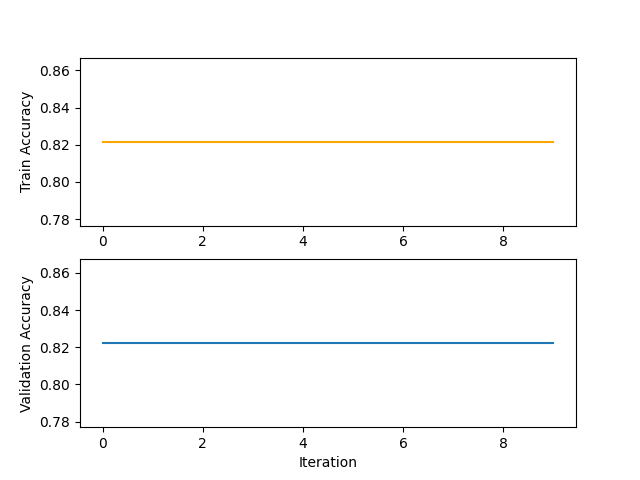
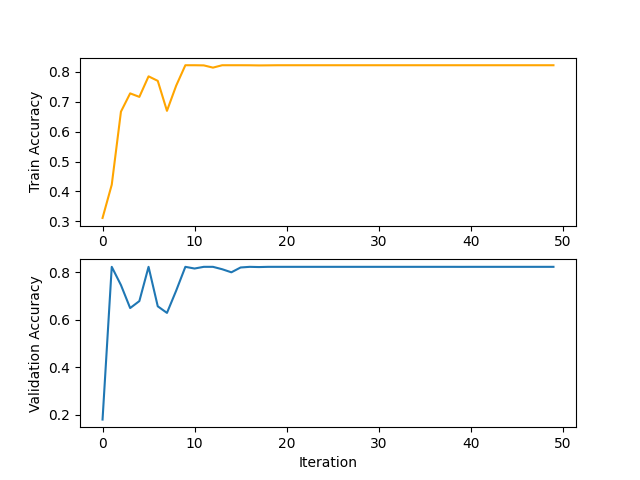
grid search, sgd optimizer

diff --git a/src/bnn/models.py b/src/bnn/models.py
@@ -1,4 +1,4 @@
-from utils import *
+from .utils import *
 
 import torch
 import torch.nn as nn
@@ -9,23 +9,29 @@ from torch.utils.data import DataLoader, TensorDataset
 
 class BNN(nn.Module):
     def __init__(self, input_dim, output_dim, 
-                 lr=0.01, prior_mu=0.0, prior_sigma=0.1):
+                 lr=0.01, prior_mu=0.0, prior_sigma=0.1, kl_weight=0.1):
+        
+        self.prior_mu = prior_mu
+        self.prior_sigma = prior_sigma
+        self.lr = lr
+
         super(BNN, self).__init__()
         self.model = nn.Sequential(
-            bnn.BayesLinear(in_features=input_dim, out_features=32, prior_mu=prior_mu,
-                            prior_sigma=prior_sigma),
+            bnn.BayesLinear(in_features=input_dim, out_features=32, 
+                            prior_mu=self.prior_mu, prior_sigma=self.prior_sigma),
             nn.ReLU(),
             bnn.BayesLinear(in_features=32, out_features=16, 
-                            prior_mu=prior_mu, prior_sigma=prior_sigma),
+                            prior_mu=self.prior_mu, prior_sigma=self.prior_sigma),
             nn.ReLU(),
-            bnn.BayesLinear(in_features=16, out_features=output_dim, prior_mu=prior_mu,
-                            prior_sigma=prior_sigma),
+            bnn.BayesLinear(in_features=16, out_features=output_dim, 
+                            prior_mu=self.prior_mu, prior_sigma=self.prior_sigma),
             nn.Sigmoid()
         )
         
         self.optimizer = torch.optim.Adam(self.parameters(), lr=lr)
         self.criterion = nn.BCELoss()
         self.kl_loss = bnn.BKLLoss(reduction="mean", last_layer_only=False)
+        self.kl_weight = kl_weight
 
     def forward(self, x):
         return self.model(x)
@@ -33,23 +39,59 @@ class BNN(nn.Module):
 
 class BatchNormBNN(nn.Module):
     def __init__(self, input_dim, output_dim, 
-                 lr=0.01, prior_mu=0.0, prior_sigma=0.1):
+                 lr=0.01, prior_mu=0.0, prior_sigma=0.1, kl_weight=0.1):
+        
+        self.prior_mu = prior_mu
+        self.prior_sigma = prior_sigma
+        self.lr = lr
+
         super(BatchNormBNN, self).__init__()
         self.model = nn.Sequential(
             bnn.BayesLinear(in_features=input_dim, out_features=32, 
-                            prior_mu=prior_mu, prior_sigma=prior_sigma),
+                            prior_mu=self.prior_mu, prior_sigma=self.prior_sigma),
             nn.BatchNorm1d(32),
             bnn.BayesLinear(in_features=32, out_features=16, 
-                            prior_mu=prior_mu, prior_sigma=prior_sigma),
+                            prior_mu=self.prior_mu, prior_sigma=self.prior_sigma),
             nn.BatchNorm1d(16),
             bnn.BayesLinear(in_features=16, out_features=output_dim, 
-                            prior_mu=prior_mu, prior_sigma=prior_sigma),
+                            prior_mu=self.prior_mu, prior_sigma=self.prior_sigma),
             nn.Sigmoid()
         )
         
-        self.optimizer = torch.optim.Adam(self.parameters(), lr=lr)
+        self.optimizer = torch.optim.Adam(self.parameters(), lr=self.lr)
         self.criterion = nn.BCELoss()
         self.kl_loss = bnn.BKLLoss(reduction="mean", last_layer_only=False)
+        self.kl_weight = kl_weight
+
+    def forward(self, x):
+        return self.model(x)
+
+
+class SGDBNN(nn.Module):
+    def __init__(self, input_dim, output_dim, 
+                 lr=0.01, prior_mu=0.0, prior_sigma=0.1, kl_weight=0.1):
+        
+        self.prior_mu = prior_mu
+        self.prior_sigma = prior_sigma
+        self.lr = lr
+
+        super(SGDBNN, self).__init__()
+        self.model = nn.Sequential(
+            bnn.BayesLinear(in_features=input_dim, out_features=32, 
+                            prior_mu=self.prior_mu, prior_sigma=self.prior_sigma),
+            nn.ReLU(),
+            bnn.BayesLinear(in_features=32, out_features=16, 
+                            prior_mu=self.prior_mu, prior_sigma=self.prior_sigma),
+            nn.ReLU(),
+            bnn.BayesLinear(in_features=16, out_features=output_dim, 
+                            prior_mu=self.prior_mu, prior_sigma=self.prior_sigma),
+            nn.Sigmoid()
+        )
+        
+        self.optimizer = torch.optim.SGD(self.parameters(), lr=lr)
+        self.criterion = nn.BCELoss()
+        self.kl_loss = bnn.BKLLoss(reduction="mean", last_layer_only=False)
+        self.kl_weight = kl_weight
 
     def forward(self, x):
         return self.model(x)
@@ -57,7 +99,7 @@ class BatchNormBNN(nn.Module):
 
 class SoftmaxBNN(nn.Module):
     def __init__(self, input_dim, output_dim, 
-                 lr=0.01, prior_mu=0.0, prior_sigma=0.1):
+                 lr=0.01, prior_mu=0.0, prior_sigma=0.1, kl_weight=0.1):
         super(SoftmaxBNN, self).__init__()
         self.model = nn.Sequential(
             bnn.BayesLinear(in_features=input_dim, out_features=32, 
@@ -70,10 +112,30 @@ class SoftmaxBNN(nn.Module):
                             prior_mu=prior_mu, prior_sigma=prior_sigma),
             nn.Softmax(dim=0)
         )
+        self.optimizer = torch.optim.Adam(self.parameters(), lr=lr)
+        self.criterion = nn.BCELoss()
+        self.kl_loss = bnn.BKLLoss(reduction="mean", last_layer_only=False)
+        self.kl_weight = kl_weight
+
+    def forward(self, x):
+        return self.model(x)
+
+
+class SingleBNN(nn.Module):
+    # for experimenting with kl_weight
+    def __init__(self, input_dim, output_dim, 
+                 lr=0.01, prior_mu=0.0, prior_sigma=0.1, kl_weight=0.1):
+        super(SingleBNN, self).__init__()
+        self.model = nn.Sequential(
+            bnn.BayesLinear(in_features=input_dim, out_features=output_dim, prior_mu=prior_mu,
+                            prior_sigma=prior_sigma),
+            nn.Sigmoid()
+        )
         
         self.optimizer = torch.optim.Adam(self.parameters(), lr=lr)
         self.criterion = nn.BCELoss()
         self.kl_loss = bnn.BKLLoss(reduction="mean", last_layer_only=False)
+        self.kl_weight = kl_weight
 
     def forward(self, x):
         return self.model(x)

diff --git a/src/bnn/utils.py b/src/bnn/utils.py
@@ -1,9 +1,15 @@
+import warnings
+warnings.simplefilter(action='ignore', category=FutureWarning)
+
 from data import *
 from sklearn.compose import ColumnTransformer
 from sklearn.preprocessing import StandardScaler, OneHotEncoder, normalize
 import matplotlib.pyplot as plt
 from sklearn.metrics import accuracy_score
 from torch.utils.data import DataLoader, TensorDataset
+import itertools
+from tqdm import tqdm
+import math
 
 
 def load_tensor():
@@ -97,9 +103,9 @@ def train(model, X_train, y_train, X_val, y_val, num_epochs):
     
         model.train()
     
-        _, train_acc = eval_performance(model, X_train, y_train, "Train")
+        _, train_acc = eval_performance(model, X_train, y_train, "Train", print_val=True)
         train_accuracies.append(train_acc)
-        val_loss, val_acc = eval_performance(model, X_val, y_val, "Validation")
+        val_loss, val_acc = eval_performance(model, X_val, y_val, "Validation", print_val=True)
         val_losses.append(val_loss)
         val_accuracies.append(val_acc)
 
@@ -132,11 +138,11 @@ def batch_train(model, X_train, y_train, X_val, y_val, num_epochs, batch_size):
         
             model.train()
 
-        train_loss, train_acc = eval_performance(model, X_train, y_train, "Train")
+        train_loss, train_acc = eval_performance(model, X_train, y_train, criterion="Train")
         train_losses.append(train_loss)
         train_accuracies.append(train_acc)
 
-        val_loss, val_acc = eval_performance(model, X_val, y_val, "Validation")
+        val_loss, val_acc = eval_performance(model, X_val, y_val, criterion="Validation")
         val_losses.append(val_loss)
         val_accuracies.append(val_acc)
 
@@ -144,16 +150,79 @@ def batch_train(model, X_train, y_train, X_val, y_val, num_epochs, batch_size):
     plot_train_val_acc(range(num_epochs), train_accuracies, val_accuracies)
 
 
-def eval_performance(model, x, y, criterion):
+def eval_performance(model, x, y, dataset, print_val=False):
     model.eval()
     with torch.no_grad():
         outputs = model(x)
         pred = (outputs >= 0.5).float()
         loss = model.criterion(pred, y)
         accuracy = accuracy_score(y, pred)
-        print(f"{criterion} Loss: {loss.item():.4f} | {criterion} Accuracy: {accuracy:.2%}")
+        if print_val:
+            print(f"{dataset} Loss: {loss:.4f} | {dataset} Accuracy: {accuracy:.2%}")
     
     return loss.item(), accuracy
+
+
+def grid_search(model, search_space, x, y, scoring):
+    total = math.prod([len(search_space[k]) for k in search_space.keys()])
+
+    results = pd.DataFrame(columns = ['score', 'params'], index = range(total))
+    
+    keys, values = zip(*search_space.items())
+    i = 0
+    with tqdm(total=total) as pbar:
+        for v in itertools.product(*values):
+            hyperparameters = dict(zip(keys, v))
+
+            loss, acc = fit(model, hyperparameters, x, y)
+            eval_results = acc if scoring == 'accuracy' else loss
+
+            results['score'][i] = eval_results
+            results['params'][i] = hyperparameters
+
+            pbar.update(1)
+            i += 1
+
+        ascending = scoring != 'accuracy'
+        results.sort_values('score', ascending = ascending, inplace = True)
+        results.reset_index(inplace = True)
+    
+    print(f'The best validation score: {results.loc[0, 'score']:.5f}')
+    print(f'The best hyperparameters: {results.loc[0, 'params']}')
+    return results
+
+
+def fit(model, hyperparameters, x, y):
+    for param, value in hyperparameters.items():
+        model.__setattr__(param, value)
+
+    for _ in range(10):
+        outputs = model(x)
+        bce_loss = model.criterion(outputs, y)
+        kl_loss = model.kl_loss(model)
+        total_loss = bce_loss + model.kl_weight * kl_loss
+
+        model.optimizer.zero_grad()
+        total_loss.backward()
+        model.optimizer.step()
+
+        model.train()
+
+    train_loss, train_acc = eval_performance(model, x, y, "Train", print_val=False)
+    return train_loss, train_acc
+
+
+def optimization(model, x, y, scoring='accuracy'):
+    print("Optimizing hyperparameters...")
+    search_space = {
+        "lr": np.arange(0.01, 0.11, 0.02),
+        "prior_sigma": np.arange(0.05, 0.3, 0.05),
+        "prior_mu": np.arange(-0.03, 0.03, 0.01),
+        "kl_weight": np.arange(0.01, 0.5, 0.05)
+    }
+    results = grid_search(model, search_space, x, y, scoring)
+    
+    return results
 
 
 def plot_features(x):

diff --git a/src/bnn/main.py b/src/bnn/main.py
@@ -1,23 +1,33 @@
-from utils import *
-from models import *
+from .utils import *
+from .models import *
 
 def main():
     X_train, y_train, X_val, y_val, X_test, y_test, preprocessor = load_tensor()
 
-    lr = 0.01
-    batch_size = 256
-    num_epochs = 10
-    prior_sigma = 0.2
-    prior_mu = 0.
+    num_epochs = 50
+    batch_size = 32
+    params = {
+        "input_dim": X_train.shape[1],
+        "output_dim": 1,
+        "prior_sigma": 0.1,
+        "prior_mu": 0.,
+        "lr": 0.05,
+        "kl_weight": 0.01
+    }
+    # params = {
+    #     "input_dim": X_train.shape[1],
+    #     "output_dim": 1,
+    #     "prior_sigma": 0.15,
+    #     "prior_mu": 0.,
+    #     "lr": 0.05,
+    #     "kl_weight": 0.01
+    # }
 
-    input_dim = X_train.shape[1]
-    output_dim = 1
+    model = BNN(**params)    
 
-    # model = BNN(input_dim=input_dim, output_dim=output_dim, 
-    #             prior_sigma=prior_sigma, prior_mu=prior_mu, lr=lr)
-    # model = BatchNormBNN(input_dim=input_dim, output_dim=output_dim)
-    model = BNN(input_dim=input_dim, output_dim=output_dim,
-                       prior_sigma=prior_sigma, prior_mu=prior_mu, lr=lr)
+    # results = optimization(model, X_train, y_train)
+    # for k, v in results.loc[0, 'params'].items():
+    #     model.__setattr__(k, v)
 
     train(model, X_train, y_train, X_val, y_val, num_epochs)
     # batch_train(model, X_train, y_train, X_val, y_val, num_epochs, batch_size)
@@ -39,7 +49,7 @@ def main():
         'EMPLOYMENT_RATE': 80
     }
 
-    infer(model, new_data_all, preprocessor)
+    # infer(model, new_data_all, preprocessor)
 
 if __name__ == '__main__':
     main()

diff --git a/src/bayesian_neural_nets/bnn.py b/src/bayesian_neural_nets/bnn.py
@@ -7,8 +7,8 @@ import torchbnn as bnn
 import matplotlib.pyplot as plt
 from tqdm import tqdm
 
-from src.data import *
-from utils import *
+from data import *
+from bayesian_neural_nets.utils_outdated import *
 
 
 EPOCH = 500
@@ -37,6 +37,9 @@ def eval_model(model, X, Y):
         errors.append(((torch.squeeze(y_hat) - torch.squeeze(y))**2).detach().numpy())
     
     rmse = np.sqrt(np.mean(np.concatenate(errors, axis=None)))
+
+    acc = calculate_accuracy(y_hat, y)
+    print('- Accuracy: %f %%' % acc)
     return round(rmse, 3)
 
 
@@ -178,19 +181,19 @@ def compute_predictions(model, X, Y, iterations=20):
 
 
 def main():
-    # baseline_torch_model = BaselineTorch(len(FEATURES), 32)
-    # rmse = eval_model(baseline_torch_model, X_val, y_val)
-    # print(f"untrained RMSE: {rmse:.3f}")
-    # losses = train_model(baseline_torch_model, simple_mse_loss, num_epochs=50)
-    # plt.plot(losses)
+    baseline_torch_model = BaselineTorch(len(FEATURES), 32)
+    rmse = eval_model(baseline_torch_model, X_val, y_val)
+    print(f"untrained RMSE: {rmse:.3f}")
+    losses = train_model(baseline_torch_model, simple_mse_loss, num_epochs=1)
+    plt.plot(losses)
 
     # bnn_torch = BnnTorch(11, 32, torch.nn.functional.relu)
     # losses = train_model(bnn_torch, mse_kl_loss, 200)
     # plt.plot(losses)
 
-    linear_bnn = LinearBnnTorch(len(FEATURES), TARGET_DIM)
-    linear_bnn.train(X_train, y_train, EPOCH)
-    linear_bnn.test(X_val, y_val)
+    # linear_bnn = LinearBnnTorch(len(FEATURES), TARGET_DIM)
+    # linear_bnn.train(X_train, y_train, EPOCH)
+    # linear_bnn.test(X_val, y_val)
 
 
 if __name__ == '__main__':

diff --git a/src/bayesian_neural_nets/bnn_attempt_joshua.py b/src/bayesian_neural_nets/bnn_attempt_joshua.py
@@ -1,4 +1,4 @@
-from src.data import load_df_data
+from data import load_df_data
 
 import pandas as pd
 from sklearn.preprocessing import StandardScaler, OneHotEncoder
